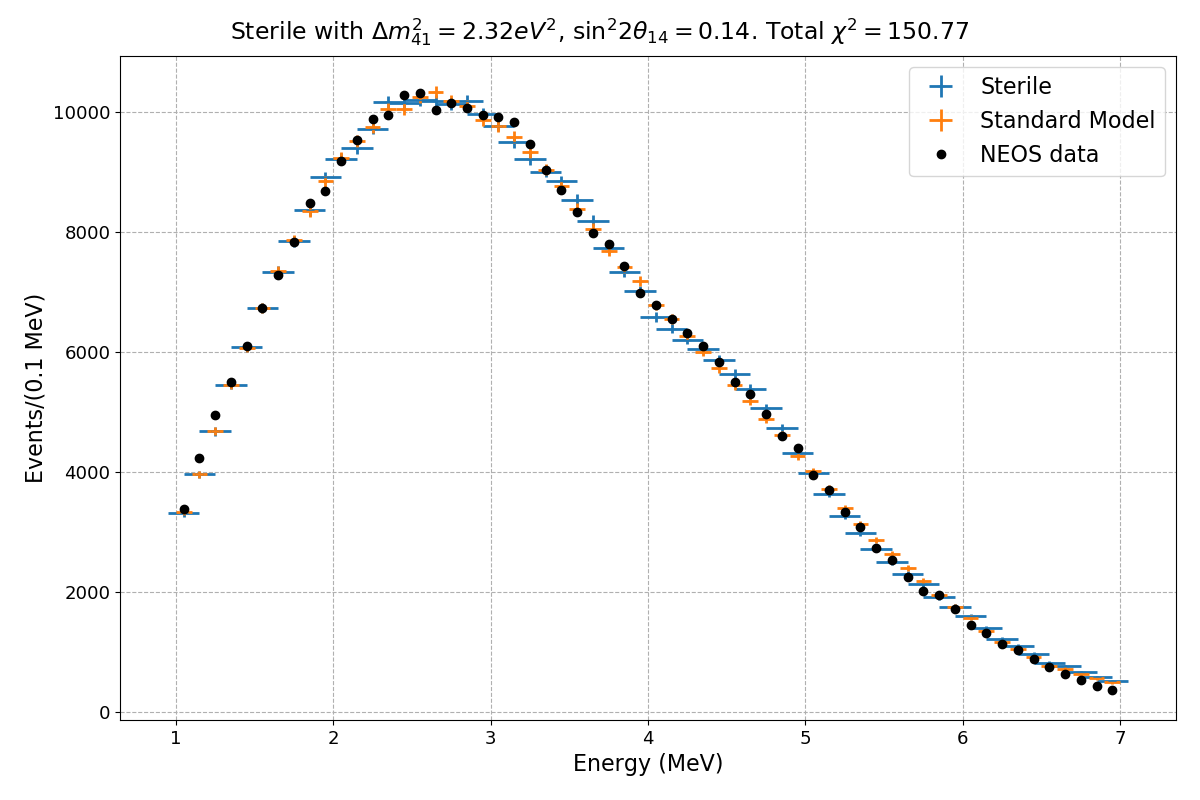
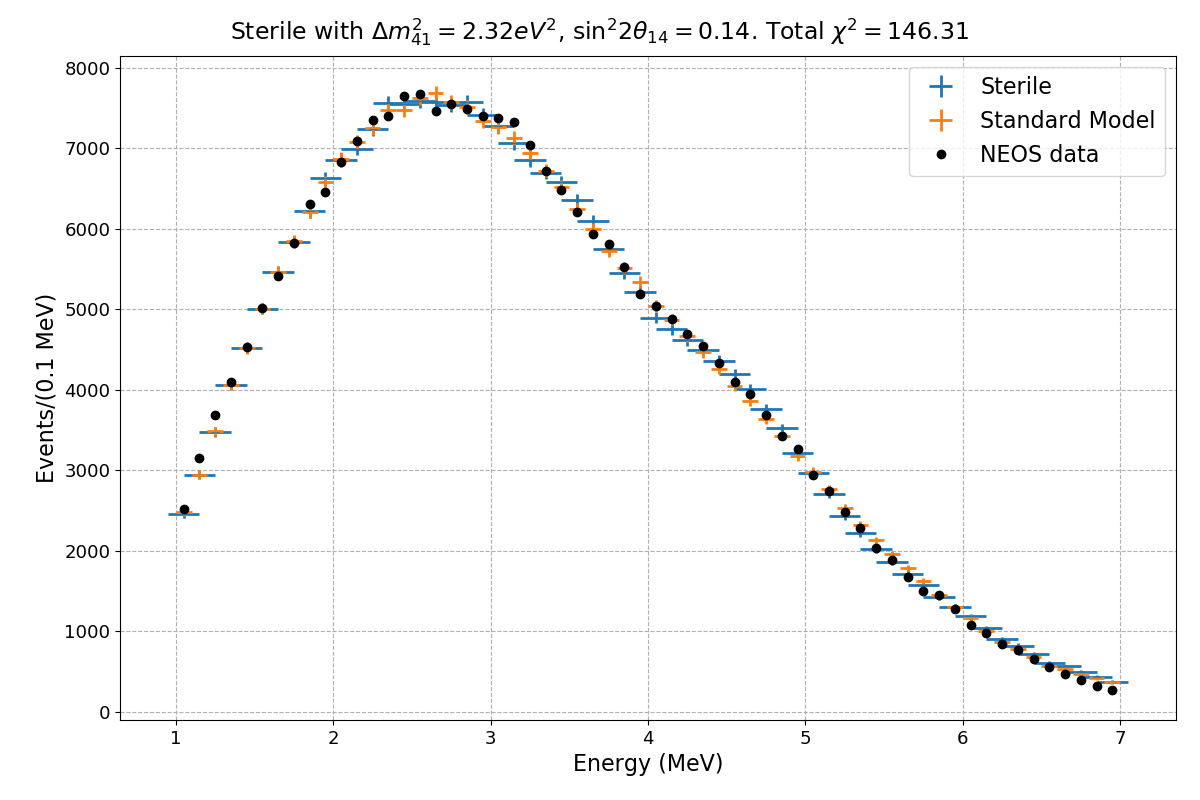
Implemented NEOS chi2 with covariance matrix. NEOS still needs revising

diff --git a/NEOS/NEOS.py b/NEOS/NEOS.py
@@ -43,13 +43,14 @@ class Neos:
         self.WidthOfHall = NEOSP.width
 
         self.NeutrinoCovarianceMatrix = NEOSP.neutrino_covariance_matrix
-        self.NeutrinoCovarianceMatrix = np.identity(26)
+        self.NeutrinoCovarianceMatrixPrompt = NEOSP.neutrino_covariance_matrix_prompt
         self.NeutrinoLowerBinEdges = NEOSP.nulowerbin
         self.NeutrinoUpperBinEdges = NEOSP.nuupperbin
         self.NeutrinoFlux = NEOSP.spectrum
 
         self.DataLowerBinEdges = NEOSD.datlowerbin
         self.DataUpperBinEdges = NEOSD.datupperbin
+        self.DataCentrBinEdges = (NEOSD.datlowerbin+NEOSD.datupperbin)/2.
         self.DeltaEData = (self.DataUpperBinEdges-self.DataLowerBinEdges)
         self.n_bins = NEOSD.number_of_bins
         self.FromEtrueToErec = NEOSP.reconstruct_mat
@@ -493,105 +494,127 @@ class Neos:
 
 
 # ----------------------------------------------------------
-# FITTING THE DATA WITH THE COVARIANCE MATRIX
+# BUILDING THE COVARIANCE MATRIX
 # ----------------------------------------------------------
 
-    # def get_resolution_matrix_underdim(self):
-    #     """
-    #     Returns an underdimension of the response matrix.
-    #     """
-    #     mat = np.zeros((len(self.NeutrinoLowerBinEdges),self.n_bins))
-    #     for i in range(0,self.n_bins):
-    #         minrec = self.FindFineBinIndex(self.DataLowerBinEdges[i])
-    #         maxrec = self.FindFineBinIndex(self.DataUpperBinEdges[i])
-    #         for j in range(0,len(self.NeutrinoLowerBinEdges)):
-    #             mintrue = self.FindFineBinIndex(self.NeutrinoLowerBinEdges[j])
-    #             maxtrue = self.FindFineBinIndex(self.NeutrinoUpperBinEdges[j])
-    #             mat[j,i] = np.mean(self.FromEtrueToErec[minrec:maxrec,mintrue:maxtrue])
-    #     return mat
+    # def get_neutrino_flux_binned(self):
+    #     flux_bin = []
+    #     for etf in range(0,len(self.NeutrinoLowerBinEdges)):
     #
     #
-    # def get_correlation_matrix(self):
-    #     V = self.NeutrinoCovarianceMatrix
-    #     sigma = np.sqrt(np.diag(V))
-    #     sigmaij = np.tile(sigma,(len(sigma),1))*(np.tile(sigma,(len(sigma),1)).transpose())
-    #     # print(V/sigmaij)
-    #     return V/sigmaij
+    # def get_all_flux_prompt_energy(self):
+    #     flux_rec = []
+    #     for i in range(0,len(self.DataLowerBinEdges)):
+    #         erec = (self.DataLowerBinEdges[erf]+self.DataUpperBinEdges[erf])/2.
+    #         erf = self.FindFineBinIndex(erec)
+    #         for etf in range(0,len(self.FromEtrueToErec[1])):
+    #             enu = (etf+0.5)*self.deltaEfine
+    #             flux = self.get_flux(enu)
+    #             flux_rec.append(flux*self.FromEtrueToErec[erf][etf])
     #
-    # def get_correlation_matrix_underdim(self):
-    #     V = self.get_correlation_matrix()
-    #     U = self.get_resolution_matrix_underdim()
-    #     UT = U.transpose()
-    #     Vdim = UT.dot(V.dot(U))
-    #     sigma = np.sqrt(np.diag(Vdim))
-    #     sigmaij = np.tile(sigma,(len(sigma),1))*(np.tile(sigma,(len(sigma),1)).transpose())
-    #     return Vdim/sigmaij
-    #
-    # def get_total_covariance_matrix(self):
-    #     A = self.get_correlation_matrix_underdim()
-    #     sigmaNEOS = self.RatioError['NEOS']
-    #     sigmaijNEOS = np.tile(sigmaNEOS,(len(sigmaNEOS),1))*(np.tile(sigmaNEOS,(len(sigmaNEOS),1)).transpose())
-    #     print(A*sigmaijNEOS)
-    #     return A*sigmaijNEOS
-    #
-    # def get_inverse_total_covariance(self):
-    #     """
-    #     Returns the inverse of the neutrino covariance matrix, V^-1.
-    #     """
-    #     return np.linalg.inv(np.array(self.get_total_covariance_matrix()))
+    #     return np.array(flux_rec)
 
+    def get_flux_prompt_energy(self,erec,use_HM = True):
+                # For the GlobalFit, it is necessary to use HM flux.
+        flux_rec = 0.0
+        erf = self.FindFineBinIndex(erec)
+        for etf in range(0,len(self.FromEtrueToErec[1])):
+            enu = (etf + 0.5)*self.deltaEfine
+            if use_HM == True:
+                # For the GlobalFit, it is necessary to use HM flux.
+                flux = np.sum(np.array([self.get_flux_HM(enu,isotope)*self.mean_fission_fractions[isotope]
+                                        for isotope in self.isotopes_to_consider]))
+            else:
+                flux = self.get_flux(enu) # the flux from DB slows down the program A LOT, use with caution
+            if ((etf == 0) or (etf == len(self.FromEtrueToErec[1]-1))):
+                flux_rec += flux*self.FromEtrueToErec[erf][etf]/2.
+            else:
+                flux_rec += flux*self.FromEtrueToErec[erf][etf]
+        return flux_rec
 
-    # def get_inverse_flux_covariance(self):
-    #     """
-    #     Returns the inverse of the neutrino covariance matrix, V^-1.
-    #     """
-    #     return np.linalg.inv(np.array(self.NeutrinoCovarianceMatrix))
-    #
-    # def get_inverse_correlation_matrix(self):
-    #     V = self.NeutrinoCovarianceMatrix
-    #     Vinv = self.get_inverse_flux_covariance()
-    #     sigma = np.sqrt(np.diag(V))
-    #     sigmaij = np.tile(sigma,(len(sigma),1))*(np.tile(sigma,(len(sigma),1)).transpose())
-    #     return Vinv*sigmaij
-    #
-    # def get_inverse_correlation_matrix_underdim(self):
-    #     V = self.get_inverse_correlation_matrix()
-    #     U = self.get_resolution_matrix_underdim()
-    #     UT = U.transpose()
-    #     Vdim = UT.dot(V.dot(U))
-    #     return Vdim
-    #
-    # def get_total_inverse_covariance_matrix_underdim(self):
-    #     A = self.get_inverse_correlation_matrix_underdim()
-    #     sigmaNEOS = self.RatioError['NEOS']
-    #     sigmaijNEOS = np.tile(sigmaNEOS,(len(sigmaNEOS),1))*(np.tile(sigmaNEOS,(len(sigmaNEOS),1)).transpose())
-    #     return A/sigmaijNEOS
+    def FindTrueBinIndex(self,enuf):
+        if enuf <= 2.125:
+            return 0
+        elif enuf >= 8.125:
+            return len(self.NeutrinoLowerBinEdges)-1
+        else:
+            return int((enuf-2.125)/0.25)+1
 
-    # def get_chi2_ratio(self, model, integrate = False, average = False, use_HM = True):
-    #     # Honestly, have never tried this. Probably, it should work.
-    #     Vinv = self.get_inverse_total_covariance()
-    #     Exp = self.get_expectation(model, integrate = integrate, average = average, use_HM = use_HM)['NEOS']
-    #     modelSM = Models.PlaneWaveSM()
-    #     ExpSM = self.get_expectation(model, use_HM = use_HM)['NEOS']
-    #     teo = Exp/ExpSM
-    #     ratio = self.RatioData['NEOS']
-    #     ratio_err = self.RatioError['NEOS']
-    #
-    #     chi2 = (teo[:,0]-ratio).dot(Vinv.dot(teo[:,0]-ratio))
-    #     return chi2
-    #
-    # def get_chi2(self,model, do_we_integrate = False, do_we_average = False):
-    #     """
-    #     Input: a  model with which to compute expectations.
-    #     Output: a chi2 statistic comparing data and expectations.
-    #     """
-    #     Vinv = self.get_total_inverse_covariance_matrix_underdim()
-    #     Exp = self.get_expectation(model, integrate = do_we_integrate, average = do_we_average)
-    #     Data = self.ObservedData
-    #     chi2 = 0.
-    #     for set_name in self.sets_names:
-    #         exp_i = Exp[set_name][:,0]#+Bkg[set_name]
-    #         dat_i = Data[set_name]
-    #         chi2 += (dat_i-exp_i).dot(Vinv.dot(dat_i-exp_i))
-    #
-    #     return chi2
+    def get_flux_covariance_prompt_energy(self,erec1,erec2):
+        covr = 0.0
+
+        if (erec1 < 1.022) or (erec2 < 1.022):
+            return 0.
+
+        erf1 = self.FindFineBinIndex(erec1)
+        erf2 = self.FindFineBinIndex(erec2)
+
+        for etf1 in range(self.FindFineBinIndex(1.806)+1,len(self.FromEtrueToErec[1])):
+            enu1 = (etf1+0.5)*self.deltaEfine
+            et1  = self.FindTrueBinIndex(enu1)
+            for etf2 in range(self.FindFineBinIndex(1.806)+1,len(self.FromEtrueToErec[1])):
+                enu2 = (etf2+0.5)*self.deltaEfine
+                et2  = self.FindTrueBinIndex(enu2)
+                covr += (self.NeutrinoCovarianceMatrix[et1][et2]/self.get_cross_section(enu1)/self.get_cross_section(enu2)
+                         *self.FromEtrueToErec[erf1][etf1]*self.FromEtrueToErec[erf2][etf2])
+        return covr
+
+    def get_table_flux_covariance_matrix_prompt(self):
+        covtab = np.array([[self.get_flux_covariance_prompt_energy(self.DataCentrBinEdges[eri1],self.DataCentrBinEdges[eri2])
+                         for eri1 in range(0,self.n_bins)] for eri2 in range(0,self.n_bins)])
+        return covtab
+
+    def get_total_covariance_matrix(self):
+        flux = np.array([self.get_flux_prompt_energy(self.DataCentrBinEdges[eri], use_HM = False)
+                         for eri in range(0,self.n_bins)])
+
+        Neff = self.ObservedData['NEOS']/flux
+        N = self.ObservedData['NEOS']
+        # print(Neff**2)
+
+        flux_cov = self.NeutrinoCovarianceMatrixPrompt
+        # flux_cov = self.NeutrinoCovarianceMatrix
+        # print(np.diag(flux_cov)/np.mean(self.NeutrinoFlux)**2)
+        # print(np.diag(flux_cov)*Neff**2)
+        # print(flux)
+        # print(self.NeutrinoFlux)
+
+        # print(1/np.sqrt(N))
+
+        stat_err = N*np.identity(self.n_bins)
+        # print(N/flux)
+        cov_err = np.tile(np.sqrt(N)/flux,(len(N),1))*(np.tile(np.sqrt(N)/flux,(len(N),1)).transpose())
+        cov_err = flux_cov*cov_err
+
+        return cov_err+stat_err
+
+    def get_inverse_covariance_matrix(self):
+        return np.linalg.inv(np.array(self.get_total_covariance_matrix()))
+
+    def get_chi2_cov(self,model, do_we_integrate = False, do_we_average = False, use_HM = True):
+        """
+        Input: a  model with which to compute expectations.
+        Output: a chi2 statistic comparing data and expectations.
+        """
+        Vinv = self.get_inverse_covariance_matrix()
+        Exp = self.get_expectation(model, integrate = do_we_integrate, average = do_we_average, use_HM = use_HM)
+        Data = self.ObservedData
+        chi2 = 0.
+        for set_name in self.sets_names:
+            exp_i = Exp[set_name][:,0]#+Bkg[set_name]
+            dat_i = Data[set_name]
+            chi2 += (dat_i-exp_i).dot(Vinv.dot(dat_i-exp_i))
+
+        return chi2
+
+    def get_chi2_ratio_cov(self,model, do_we_integrate = False, do_we_average = False, use_HM = True):
+        Exp = self.get_expectation(model, integrate = do_we_integrate, average = do_we_average, use_HM = use_HM)['NEOS']
+        modelSM = Models.PlaneWaveSM()
+        ExpSM = self.get_expectation(modelSM, use_HM = use_HM)['NEOS']
+        teo = Exp[:,0]/ExpSM[:,0]
+        ratio = self.RatioData['NEOS']
+        Vinv = self.get_inverse_covariance_matrix()
+        # Vinv *= np.tile(np.sqrt(ExpSM[:,0]),(len(ExpSM[:,0]),1))*(np.tile(np.sqrt(ExpSM[:,0]),(len(ExpSM[:,0]),1)).transpose())
+        Vinv *= np.tile(ExpSM[:,0],(len(ExpSM[:,0]),1))*(np.tile(ExpSM[:,0],(len(ExpSM[:,0]),1)).transpose())
+
+        return (teo-ratio).dot(Vinv.dot(teo-ratio))

diff --git a/NEOS/EventExpectationPlots.py b/NEOS/EventExpectationPlots.py
@@ -25,10 +25,14 @@ Model_osc = Models.PlaneWaveSM()
 # ------------
 sin2 = 0.05
 dm2 = 1.73
+sin2 = 0.142
+dm2 = 2.32
 Model_ste = Models.PlaneWaveSterile(DM2_41 = dm2,Sin22Th14 = sin2)
 
 sin2_2 = 0.142
 dm2_2 = 2.32
+sin2_2 = 0.05
+dm2_2 = 1.73
 Model_ste2 = Models.PlaneWaveSterile(DM2_41 = dm2_2,Sin22Th14 = sin2_2)
 
 
@@ -51,6 +55,16 @@ predDB_DB = predDB_DB['NEOS']
 # predDB_HM = predDB_HM['NEOS']
 pred2 = pred2['NEOS']
 
+def chi2_ratio_cov(Exp,ExpSM):
+    teo = Exp[:,0]/ExpSM[:,0]
+    ratio = NEOS_test.RatioData['NEOS']
+    Vinv = NEOS_test.get_inverse_covariance_matrix()
+    # Vinv *= np.tile(np.sqrt(ExpSM[:,0]),(len(ExpSM[:,0]),1))*(np.tile(np.sqrt(ExpSM[:,0]),(len(ExpSM[:,0]),1)).transpose())
+    Vinv *= np.tile(ExpSM[:,0],(len(ExpSM[:,0]),1))*(np.tile(ExpSM[:,0],(len(ExpSM[:,0]),1)).transpose())
+
+    return (teo-ratio).dot(Vinv.dot(teo-ratio))
+
+
 evex = pred[:,0]
 data = NEOS_test.ObservedData['NEOS']
 ratio_data = NEOS_test.RatioData['NEOS']
@@ -58,7 +72,7 @@ ratio_err  = NEOS_test.RatioError['NEOS']
 ratio_pred = pred[:,0]/predDB_DB[:,0]
 
 chi2_ratio = (ratio_pred-ratio_data)**2/ratio_err**2
-chi2_per_exp = np.sum(chi2_ratio)
+chi2_per_exp = np.sum(chi2_ratio_cov(pred,predDB_DB))
 
 
 # -------------------------------------------------------

diff --git a/NEOS/NEOSParameters.py b/NEOS/NEOSParameters.py
@@ -105,5 +105,4 @@ spectrum = np.array([344.19, 770.96, 1080.9, 1348.4, 1528.8, 1687.0, 1746.6, 176
 # The neutrino flux covariance matrix is obtained from 1607.05378 Table 13.
 # Units (cm^2/fission/MeV)^2 x 10^{-92}
 neutrino_covariance_matrix = txt_to_array(dir+"NeutrinoCovMatrix.dat")
-cov_lower_edges = np.array([1.800, 2.125, 2.375, 2.625, 2.875, 3.125, 3.375, 3.625, 3.875, 4.125, 4.375, 4.625, 4.875, 5.125, 5.375, 5.625, 5.875, 6.125, 6.375, 6.625, 6.875, 7.125, 7.375, 7.625, 7.875, 8.125])
-cov_upper_edges = np.array([2.125, 2.375, 2.625, 2.875, 3.125, 3.375, 3.625, 3.875, 4.125, 4.375, 4.625, 4.875, 5.125, 5.375, 5.625, 5.875, 6.125, 6.375, 6.625, 6.875, 7.125, 7.375, 7.625, 7.875, 8.125, 12.000])
+neutrino_covariance_matrix_prompt = txt_to_array(dir+"NeutrinoCovMatrixPrompt.dat")

diff --git a/NEOS/NEOSData.py b/NEOS/NEOSData.py
@@ -35,7 +35,7 @@ dir = os.path.dirname(os.path.abspath(__file__))+"/Data/"
 def gaussian(x,mu,sig):
     return 1/(np.sqrt(2*np.pi)*sig)*np.exp(-(x-mu)**2/sig**2)
 
-def reconstruct_matrix_function(self,etrue,erec):
+def reconstruct_matrix_function(etrue,erec):
     """
     This function tries to mimic the response matrix in inset from figure 3(a)
     in 1610.05134. More information on the fit in 1609.03910.
@@ -113,7 +113,7 @@ def txt_to_array(filename, sep = ","):
 # 4: Error of ratio of NEOS data to DayaBay data
 # 5: Number of expected events according to HM flux, per day, per 100 keV
 
-norm = 180.#-46.
+norm = 180.-46.
 # It is important to say: this normalisation factor must not include the deltaE
 
 fudge_data = 1.
